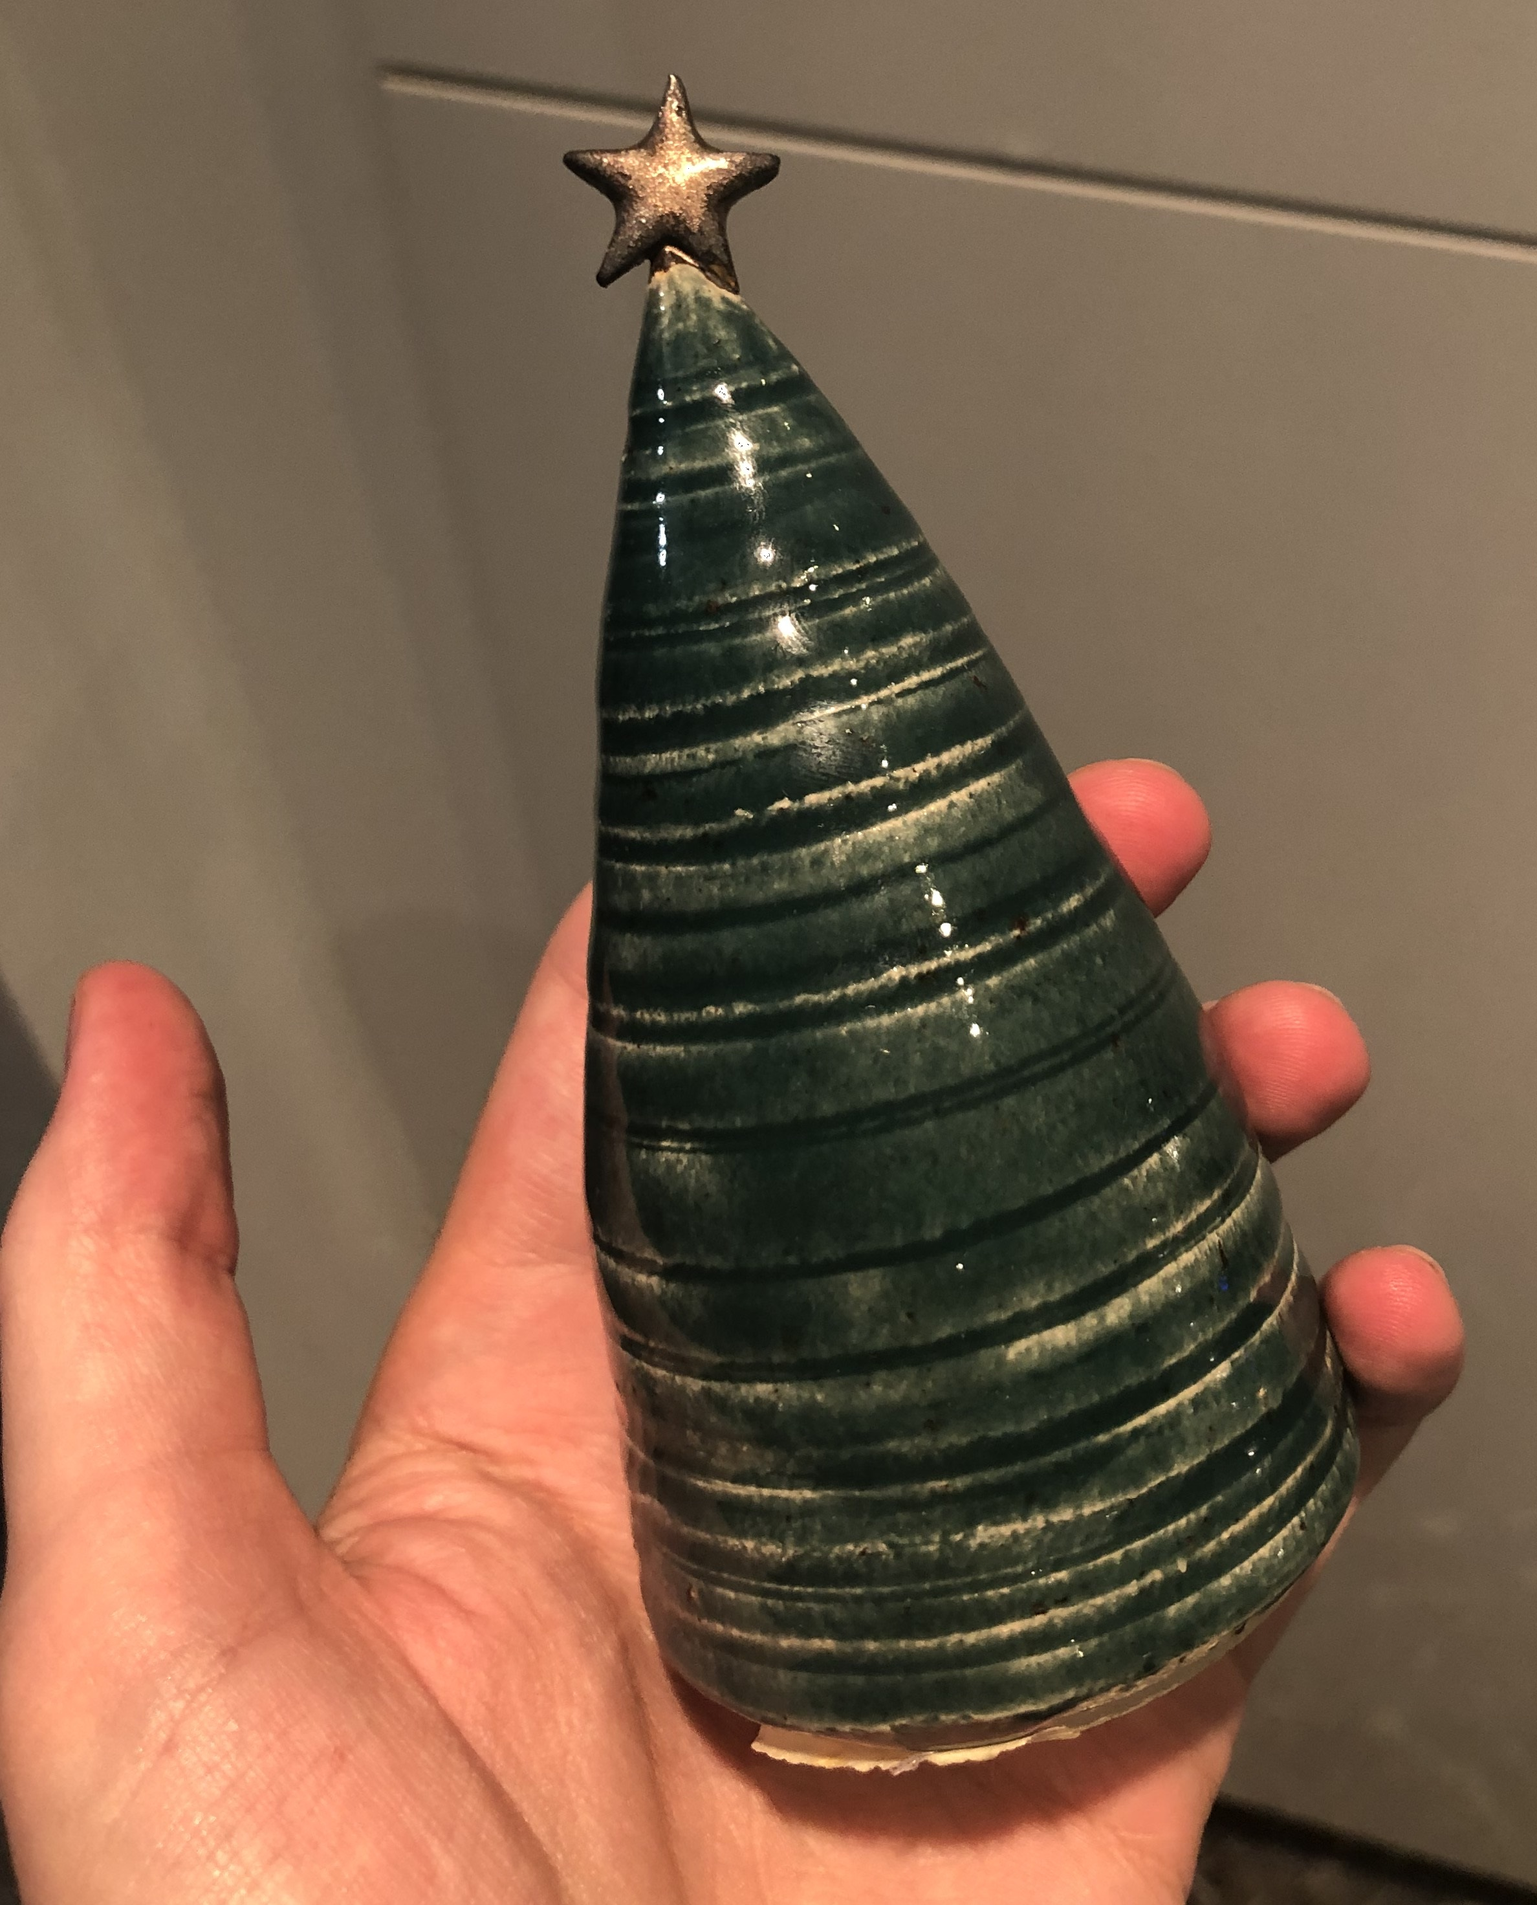
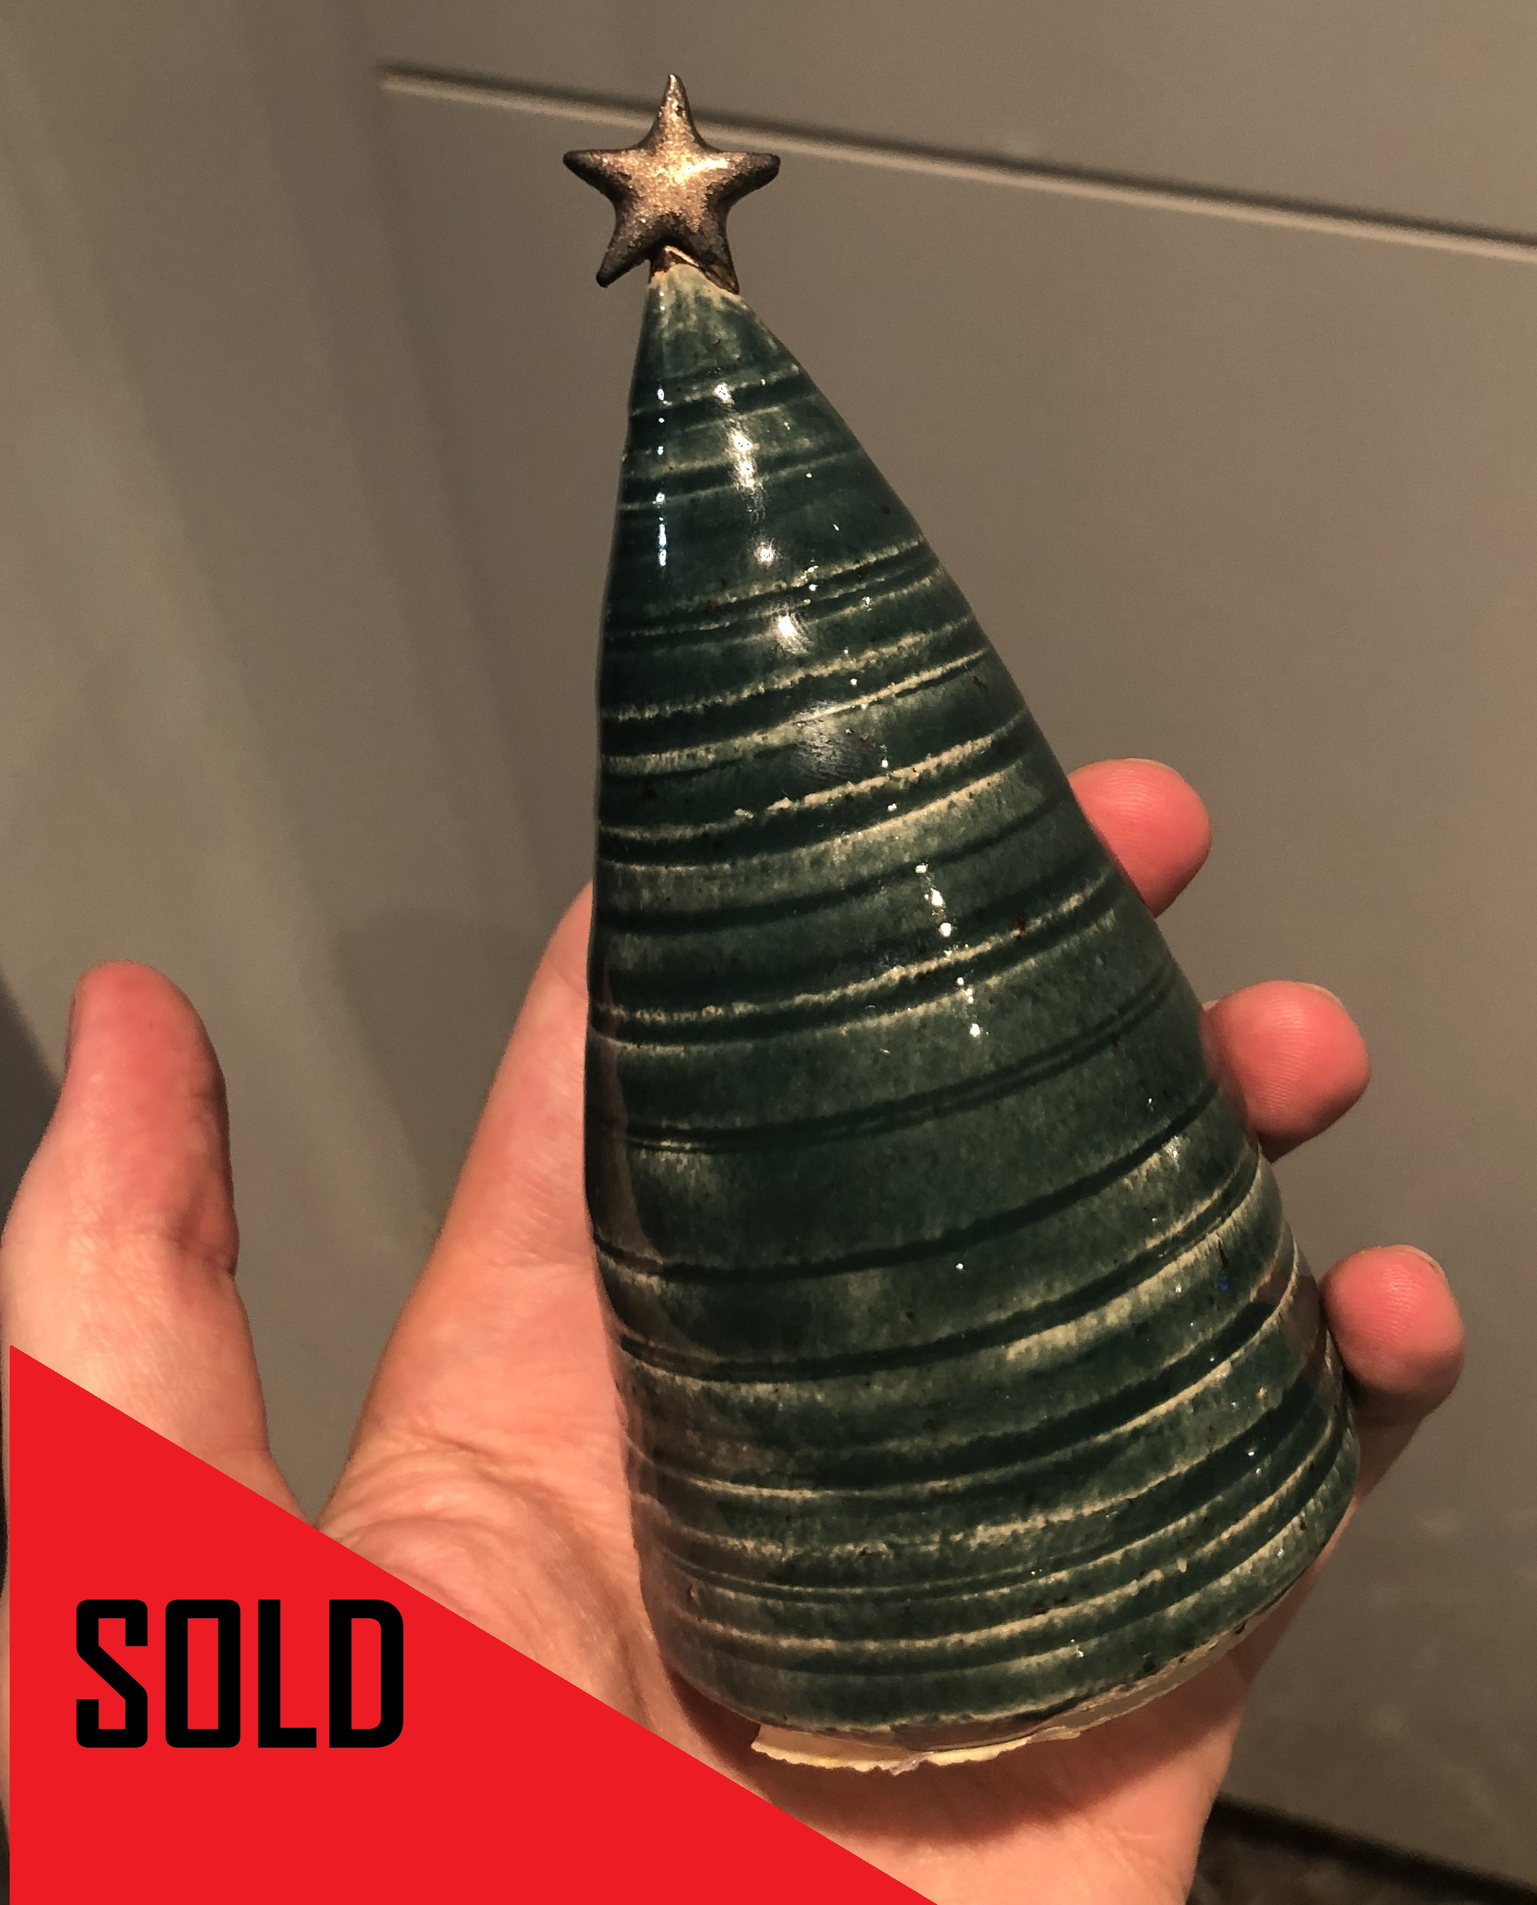
shop update

Changed region(s): [[0.0, 0.6875, 0.5918, 1.0]]

diff --git a/css/grayscale2.min.css b/css/grayscale2.min.css
@@ -2,4 +2,4 @@
  * Start Bootstrap - Grayscale v5.0.9 (https://startbootstrap.com/template-overviews/grayscale)
  * Copyright 2013-2019 Start Bootstrap
  * Licensed under MIT (https://github.com/BlackrockDigital/startbootstrap-grayscale/blob/master/LICENSE)
- */#mainNav{min-height:56px;background-color:#fff}#mainNav .navbar-toggler{font-size:80%;padding:.75rem;color:#64a19d;border:1px solid #64a19d}#mainNav .navbar-toggler:focus{outline:0}#mainNav .navbar-brand{color:#161616;font-weight:700;padding:.9rem 0}#mainNav .navbar-nav .nav-item:hover{color:fade(white,80%);outline:0;background-color:transparent}#mainNav .navbar-nav .nav-item:active,#mainNav .navbar-nav .nav-item:focus{outline:0;background-color:transparent}@media (min-width:992px){#mainNav{padding-top:0;padding-bottom:0;border-bottom:none;background-color:transparent;transition:background-color .3s ease-in-out}#mainNav .navbar-brand{padding:.5rem 0;color:rgba(255,255,255,.5)}#mainNav .nav-link{transition:none;padding:2rem 1.5rem;color:rgba(255,255,255,.5)}#mainNav .nav-link:hover{color:rgba(255,255,255,.75)}#mainNav .nav-link:active{color:#fff}#mainNav.navbar-shrink{background-color:#fff}#mainNav.navbar-shrink .navbar-brand{color:#161616}#mainNav.navbar-shrink .nav-link{color:#161616;padding:1.5rem 1.5rem 1.25rem;border-bottom:.25rem solid transparent}#mainNav.navbar-shrink .nav-link:hover{color:#64a19d}#mainNav.navbar-shrink .nav-link:active{color:#467370}#mainNav.navbar-shrink .nav-link.active{color:#64a19d;outline:0;border-bottom:.25rem solid #64a19d}}.masthead{position:relative;width:100%;height:auto;min-height:35rem;padding:15rem 0;background:linear-gradient(to bottom,rgba(22,22,22,.3) 0,rgba(22,22,22,.7) 75%,#161616 100%),url(../img/ambient.JPG);background-position:center;background-repeat:no-repeat;background-attachment:scroll;background-size:cover}.masthead h1{font-family:'Varela Round';font-size:2.5rem;line-height:2.5rem;letter-spacing:.8rem;background:-webkit-linear-gradient(rgba(255,255,255,.9),rgba(255,255,255,0));-webkit-text-fill-color:transparent;-webkit-background-clip:text}.masthead h2{max-width:20rem;font-size:1rem}@media (min-width:768px){.masthead h1{font-size:4rem;line-height:4rem}}@media (min-width:992px){.masthead{height:100vh;padding:0}.masthead h1{font-size:6.5rem;line-height:6.5rem;letter-spacing:.8rem}.masthead h2{max-width:30rem;font-size:1.25rem}}.btn{box-shadow:0 .1875rem .1875rem 0 rgba(0,0,0,.1)!important;padding:1.25rem 2rem;font-family:'Varela Round';font-size:80%;text-transform:uppercase;letter-spacing:.15rem;border:0}.btn-primary{background-color:#64a19d}.btn-primary:hover{background-color:#4f837f}.btn-primary:focus{background-color:#4f837f;color:#fff}.btn-primary:active{background-color:#467370!important}.about-section{padding-top:10rem;background:linear-gradient(to bottom,#161616 0,rgba(22,22,22,.9) 75%,rgba(22,22,22,.8) 100%)}.about-section p{margin-bottom:5rem}.projects-section{padding:10rem 0}.projects-section .featured-text{padding:2rem}@media (min-width:992px){.projects-section .featured-text{padding:0 0 0 2rem;border-left:.5rem solid #64a19d}}.projects-section .project-text{padding:3rem;font-size:90%}@media (min-width:992px){.projects-section .project-text{padding:5rem}.projects-section .project-text hr{border-color:#64a19d;border-width:.25rem;width:30%}}.signup-section{padding:10rem 0;background:linear-gradient(to bottom,rgba(22,22,22,.1) 0,rgba(22,22,22,.5) 75%,#161616 100%),url(../img/bg-signup.jpg);background-position:center;background-repeat:no-repeat;background-attachment:scroll;background-size:cover}.signup-section .form-inline input{box-shadow:0 .1875rem .1875rem 0 rgba(0,0,0,.1)!important;padding:1.25rem 2rem;height:auto;font-family:'Varela Round';font-size:80%;text-transform:uppercase;letter-spacing:.15rem;border:0}.contact-section{padding:5rem 0 0}.contact-section .card{border:0;border-bottom:.25rem solid #64a19d}.contact-section .card h4{font-size:.8rem;font-family:'Varela Round';text-transform:uppercase;letter-spacing:.15rem}.contact-section .card hr{border-color:#64a19d;border-width:.25rem;width:3rem}.contact-section .social{margin-top:5rem}.contact-section .social a{text-align:center;height:3rem;width:3rem;background:rgba(255,255,255,.1);border-radius:100%;line-height:3rem;color:rgba(255,255,255,.3)}.contact-section .social a:hover{color:rgba(255,255,255,.5)}.contact-section .social a:active{color:#fff}body{font-family:Nunito;letter-spacing:.0625em}a{color:#64a19d}a:focus,a:hover{text-decoration:none;color:#3c6360}.bg-black{background-color:#161616!important}.bg-primary{background-color:#64a19d!important}.text-primary{color:#64a19d!important}footer{padding:5rem 0}
+ */#mainNav{min-height:56px;background-color:#fff}#mainNav .navbar-toggler{font-size:80%;padding:.75rem;color:#64a19d;border:1px solid #64a19d}#mainNav .navbar-toggler:focus{outline:0}#mainNav .navbar-brand{color:#161616;font-weight:700;padding:.9rem 0}#mainNav .navbar-nav .nav-item:hover{color:fade(white,80%);outline:0;background-color:transparent}#mainNav .navbar-nav .nav-item:active,#mainNav .navbar-nav .nav-item:focus{outline:0;background-color:transparent}@media (min-width:992px){#mainNav{padding-top:0;padding-bottom:0;border-bottom:none;background-color:transparent;transition:background-color .3s ease-in-out}#mainNav .navbar-brand{padding:.5rem 0;color:rgba(255,255,255,.5)}#mainNav .nav-link{transition:none;padding:2rem 1.5rem;color:rgba(255,255,255,.5)}#mainNav .nav-link:hover{color:rgba(255,255,255,.75)}#mainNav .nav-link:active{color:#fff}#mainNav.navbar-shrink{background-color:#fff}#mainNav.navbar-shrink .navbar-brand{color:#161616}#mainNav.navbar-shrink .nav-link{color:#161616;padding:1.5rem 1.5rem 1.25rem;border-bottom:.25rem solid transparent}#mainNav.navbar-shrink .nav-link:hover{color:#64a19d}#mainNav.navbar-shrink .nav-link:active{color:#467370}#mainNav.navbar-shrink .nav-link.active{color:#64a19d;outline:0;border-bottom:.25rem solid #64a19d}}.masthead{position:relative;width:100%;height:auto;min-height:35rem;padding:15rem 0;background:linear-gradient(to bottom,rgba(22,22,22,.3) 0,rgba(22,22,22,.7) 75%,#161616 100%),url(../img/alleggs2.jpg);background-position:center;background-repeat:no-repeat;background-attachment:scroll;background-size:cover}.masthead h1{font-family:'Varela Round';font-size:2.5rem;line-height:2.5rem;letter-spacing:.8rem;background:-webkit-linear-gradient(rgba(255,255,255,.9),rgba(255,255,255,0));-webkit-text-fill-color:transparent;-webkit-background-clip:text}.masthead h2{max-width:20rem;font-size:1rem}@media (min-width:768px){.masthead h1{font-size:4rem;line-height:4rem}}@media (min-width:992px){.masthead{height:100vh;padding:0}.masthead h1{font-size:6.5rem;line-height:6.5rem;letter-spacing:.8rem}.masthead h2{max-width:30rem;font-size:1.25rem}}.btn{box-shadow:0 .1875rem .1875rem 0 rgba(0,0,0,.1)!important;padding:1.25rem 2rem;font-family:'Varela Round';font-size:80%;text-transform:uppercase;letter-spacing:.15rem;border:0}.btn-primary{background-color:#64a19d}.btn-primary:hover{background-color:#4f837f}.btn-primary:focus{background-color:#4f837f;color:#fff}.btn-primary:active{background-color:#467370!important}.about-section{padding-top:10rem;background:linear-gradient(to bottom,#161616 0,rgba(22,22,22,.9) 75%,rgba(22,22,22,.8) 100%)}.about-section p{margin-bottom:5rem}.projects-section{padding:10rem 0}.projects-section .featured-text{padding:2rem}@media (min-width:992px){.projects-section .featured-text{padding:0 0 0 2rem;border-left:.5rem solid #64a19d}}.projects-section .project-text{padding:3rem;font-size:90%}@media (min-width:992px){.projects-section .project-text{padding:5rem}.projects-section .project-text hr{border-color:#64a19d;border-width:.25rem;width:30%}}.signup-section{padding:10rem 0;background:linear-gradient(to bottom,rgba(22,22,22,.1) 0,rgba(22,22,22,.5) 75%,#161616 100%),url(../img/bg-signup.jpg);background-position:center;background-repeat:no-repeat;background-attachment:scroll;background-size:cover}.signup-section .form-inline input{box-shadow:0 .1875rem .1875rem 0 rgba(0,0,0,.1)!important;padding:1.25rem 2rem;height:auto;font-family:'Varela Round';font-size:80%;text-transform:uppercase;letter-spacing:.15rem;border:0}.contact-section{padding:5rem 0 0}.contact-section .card{border:0;border-bottom:.25rem solid #64a19d}.contact-section .card h4{font-size:.8rem;font-family:'Varela Round';text-transform:uppercase;letter-spacing:.15rem}.contact-section .card hr{border-color:#64a19d;border-width:.25rem;width:3rem}.contact-section .social{margin-top:5rem}.contact-section .social a{text-align:center;height:3rem;width:3rem;background:rgba(255,255,255,.1);border-radius:100%;line-height:3rem;color:rgba(255,255,255,.3)}.contact-section .social a:hover{color:rgba(255,255,255,.5)}.contact-section .social a:active{color:#fff}body{font-family:Nunito;letter-spacing:.0625em}a{color:#64a19d}a:focus,a:hover{text-decoration:none;color:#3c6360}.bg-black{background-color:#161616!important}.bg-primary{background-color:#64a19d!important}.text-primary{color:#64a19d!important}footer{padding:5rem 0}

diff --git a/shoplist.html b/shoplist.html
@@ -1,0 +1,194 @@
+<!DOCTYPE html>
+<html lang="en">
+
+<head>
+  <!-- Global site tag (gtag.js) - Google Analytics -->
+  <script async src="https://www.googletagmanager.com/gtag/js?id=UA-154340363-1"></script>
+  <script>
+    window.dataLayer = window.dataLayer || [];
+    function gtag(){dataLayer.push(arguments);}
+    gtag('js', new Date());
+
+    gtag('config', 'UA-154340363-1');
+  </script>
+
+  <meta charset="utf-8">
+  <meta name="viewport" content="width=device-width, initial-scale=1, shrink-to-fit=no">
+  <meta name="description" content="Groovy things made from clay! Richard Moonstreet is a British Ceramic artist based in London. Find a piece of pottery to treasure in our online store, or view our collections.">
+  <meta name="author" content="Richard Moonstreet Ceramics">
+  <meta name="og:title" property="og:title" content="Online Shop">
+
+  <title>Online Shop</title>
+
+  <!-- Bootstrap core CSS -->
+  <link href="vendor/bootstrap/css/bootstrap.min.css" rel="stylesheet">
+
+  <!-- Custom fonts for this template -->
+  <link href="vendor/fontawesome-free/css/all.min.css" rel="stylesheet">
+  <link href="https://fonts.googleapis.com/css?family=Varela+Round" rel="stylesheet">
+  <link href="https://fonts.googleapis.com/css?family=Nunito:200,200i,300,300i,400,400i,600,600i,700,700i,800,800i,900,900i" rel="stylesheet">
+
+  <!-- Custom styles for this template -->
+  <link href="css/grayscale2.min.css" rel="stylesheet">
+
+</head>
+
+<body id="page-top">
+
+  <!-- Navigation -->
+  <nav class="navbar navbar-expand-lg navbar-light fixed-top" id="mainNav">
+    <div class="container">
+      <a class="navbar-brand js-scroll-trigger" href="index.html">HOME</a>
+      <button class="navbar-toggler navbar-toggler-right" type="button" data-toggle="collapse" data-target="#navbarResponsive" aria-controls="navbarResponsive" aria-expanded="false" aria-label="Toggle navigation">
+        Menu
+        <i class="fas fa-bars"></i>
+      </button>
+      <div class="collapse navbar-collapse" id="navbarResponsive">
+        <ul class="navbar-nav ml-auto">
+                  </ul>
+      </div>
+    </div>
+  </nav>
+  <!-- Header -->
+  <header class="masthead">
+    <div class="container d-flex h-100 align-items-center">
+      <div class="mx-auto text-center">
+        <h1 class="mx-auto my-0 text-uppercase">Online Shop</h1>
+        <a href="#gallery" class="btn btn-primary js-scroll-trigger">Currently available to own...</a>
+      </div>
+    </div>
+  </header>
+
+  <!--Project Images2-->
+  <br>
+
+  <section id="gallery">
+    <div class="container-fluid">
+    <div class="row">
+      <div class="col-sm-3">
+    <div class="card bg-light mb-3" style="width: 18rem;">
+      <img class="card-img-top" src="img/chicken23.jpg" alt="Chickens">
+      <div class="card-body">
+        <h5 class="card-title">Hugh the Hen - £30</h5>
+        <p class="card-text">Chonky Chicken with personality<br>Hugh is now in a new home!</p>
+        </div>
+    </div>
+  </div>
+
+
+
+  <div class="col-sm-3">
+    <div class="card bg-light mb-3" style="width: 18rem;">
+      <img class="card-img-top" src="img/alleggs2.jpg" alt="Tabletop Eggs">
+      <div class="card-body">
+        <h5 class="card-title">Table Eggos - £18</h5>
+        <p class="card-text">Ceramic eggs - fried and easy. <br>Tabletop style, sunny side up.</p>
+        <a href="https://www.amazon.co.uk/dp/B084RQHFGN?ref=hdn_dp_car_mba_1" class="btn btn-primary">AVAILABLE NOW</a>
+      </div>
+    </div>
+  </div>
+
+  <div class="col-sm-3">
+    <div class="card bg-light mb-3" style="width: 18rem;">
+      <img class="card-img-top" src="img/dali1.jpg" alt="Dali Eggs">
+      <div class="card-body">
+        <h5 class="card-title">Dali Eggos - £18</h5>
+        <p class="card-text">Ceramic eggs - fried and easy. <br>Go Dali drip for a surreal breakfast?</p>
+        <a href="https://www.amazon.co.uk/dp/B084RGQBN5?ref=hnd_adp_tp_1" class="btn btn-primary">AVAILABLE NOW</a>
+      </div>
+    </div>
+  </div>
+
+  <div class="col-sm-3">
+    <div class="card bg-light mb-3" style="width: 18rem;">
+      <img class="card-img-top" src="img/peas.jpg" alt="Peas">
+      <div class="card-body">
+        <h5 class="card-title">Hap-peas! - £15</h5>
+        <p class="card-text">Happy peas in a pod full of friends.<br> Choose your favourite family!</p><br><br>
+          <a href="https://www.instagram.com/RichardMoonstreet" class="btn btn-primary">Coming Soon - Follow for Updates</a>
+          </div>
+    </div>
+  </div>
+  </div></div>
+
+  </section>
+
+  <!--Project Images-->
+  <br>
+
+  <section id="gallery">
+    <div class="container-fluid">
+    <div class="row">
+      <div class="col-sm-3">
+    <div class="card bg-light mb-3" style="width: 18rem;">
+      <img class="card-img-top" src="img/aubergine.jpg" alt="Aubergine">
+      <div class="card-body">
+        <h5 class="card-title">Melancholy Aubergine - £35</h5>
+        <p class="card-text">Life is difficult.<br>Cheer up this Eggplant with some love</p>
+        <a href="https://www.instagram.com/RichardMoonstreet" class="btn btn-primary">Coming Soon - Follow for Updates</a>
+            </div>
+    </div>
+  </div>
+
+
+
+  <div class="col-sm-3">
+    <div class="card bg-light mb-3" style="width: 18rem;">
+      <img class="card-img-top" src="img/smallhen.jpg" alt="Little Chicken">
+      <div class="card-body">
+        <h5 class="card-title">Small Hen - £23</h5>
+        <p class="card-text">Little but very caring<br>His name is literally "Small Hen"</p>
+      <a href="https://www.instagram.com/RichardMoonstreet" class="btn btn-primary">Coming Soon - Follow for Updates</a>
+        </div>
+    </div>
+  </div>
+
+  <div class="col-sm-3">
+    <div class="card bg-light mb-3" style="width: 18rem;">
+      <img class="card-img-top" src="img/hollow.jpg" alt="Hollow Chicken">
+      <div class="card-body">
+        <h5 class="card-title">Eggcup Mother Hen - £65</h5>
+        <p class="card-text">Eggcup Mother Hen<br>Hollow hen sat with eggcup plate base.</p>
+        <a href="https://www.instagram.com/RichardMoonstreet" class="btn btn-primary">Coming Soon - Follow for Updates</a>  </div>
+    </div>
+  </div>
+
+  <div class="col-sm-3">
+    <div class="card bg-light mb-3" style="width: 18rem;">
+      <img class="card-img-top" src="img/chimtall.jpg" alt="Coronation Street Chimeny">
+      <div class="card-body">
+        <h5 class="card-title">Coronation Street Chimney - £190</h5>
+        <p class="card-text">Ken?<br>Decorative Chimey for your inner Victorian</p>
+        <a href="https://www.instagram.com/RichardMoonstreet" class="btn btn-primary">Coming Soon - Follow for Updates</a>
+      </div>
+    </div>
+  </div>
+
+  </div></div>
+
+  </section>
+  <!--Project Images-->
+  <br>
+
+  <section id="gallery">
+    <div class="container-fluid">
+    <div class="row">
+      <div class="col-sm-3">
+    <div class="card bg-light mb-3" style="width: 18rem;">
+      <img class="card-img-top" src="img/Tree1.jpg" alt="Christmas Trees">
+      <div class="card-body">
+        <h5 class="card-title">Festive Firs - £12</h5>
+        <p class="card-text">All trees are now in new homes<br>Limited batch of 10 made.</p>
+                    </div>
+    </div>
+  </div>
+
+
+
+
+
+
+
+  </div></div>
+
+  </section>

diff --git a/index.html b/index.html
@@ -78,8 +78,8 @@
           </li>
 
                 <li class="nav-item">
-            <a class="nav-link js-scroll-trigger" href="https://www.amazon.co.uk/handmade/Richard-Moonstreet-Ceramics">Buy Online</a>
-          </li>
+<a class="nav-link js-scroll-trigger" href="shoplist.html">Buy Online</a>
+ </li>
           <li class="nav-item">
             <a class="nav-link js-scroll-trigger" href="#learning">Learning</a>
           </li>
